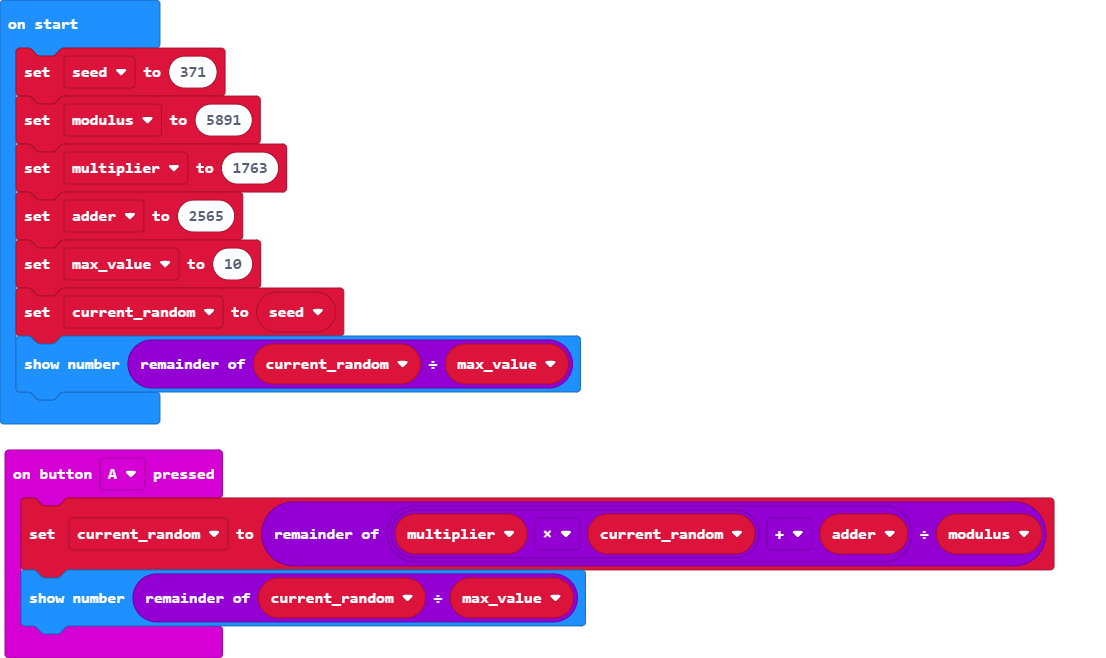
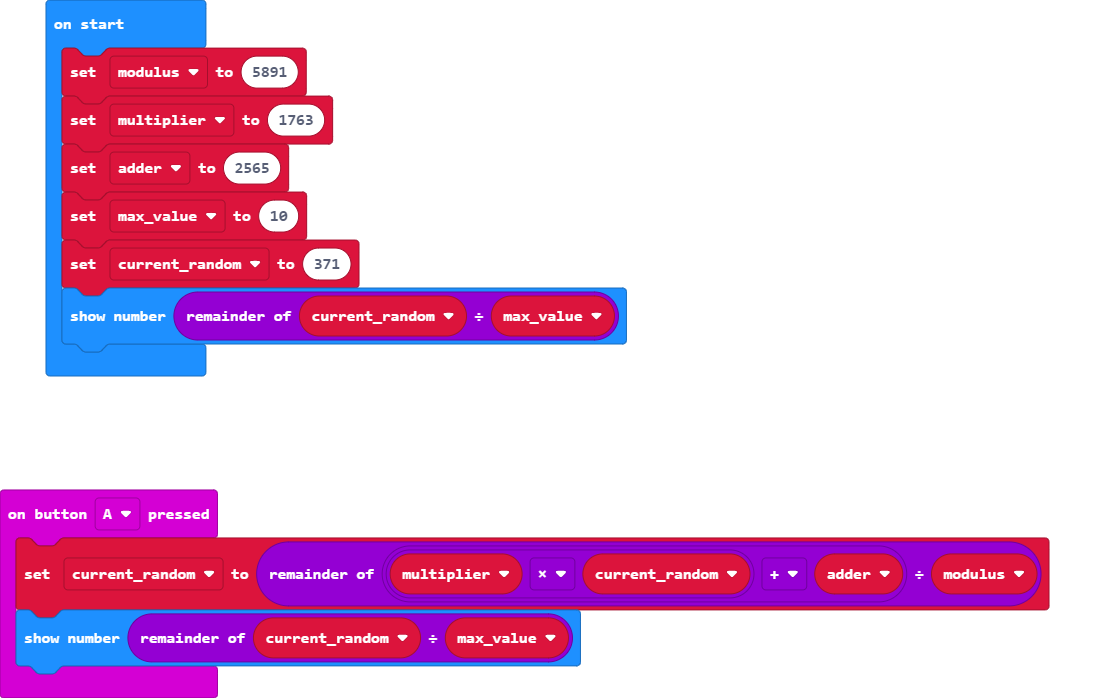
Removing the redundant seed

Changed region(s): [[0.0, 0.0, 0.9573, 1.0]]

diff --git a/main.ts b/main.ts
@@ -7,10 +7,9 @@ let max_value = 0
 let adder = 0
 let multiplier = 0
 let modulus = 0
-let seed = 371
 modulus = 5891
 multiplier = 1763
 adder = 2565
 max_value = 10
-current_random = seed
+current_random = 371
 basic.showNumber(current_random % max_value)

diff --git a/main.py b/main.py
@@ -1,0 +1,18 @@
+def on_button_pressed_a():
+    global current_random
+    current_random = (multiplier * current_random + adder) % modulus
+    basic.show_number(current_random % max_value)
+input.on_button_pressed(Button.A, on_button_pressed_a)
+
+current_random = 0
+max_value = 0
+adder = 0
+multiplier = 0
+modulus = 0
+seed = 371
+modulus = 5891
+multiplier = 1763
+adder = 2565
+max_value = 10
+current_random = seed
+basic.show_number(current_random % max_value)
